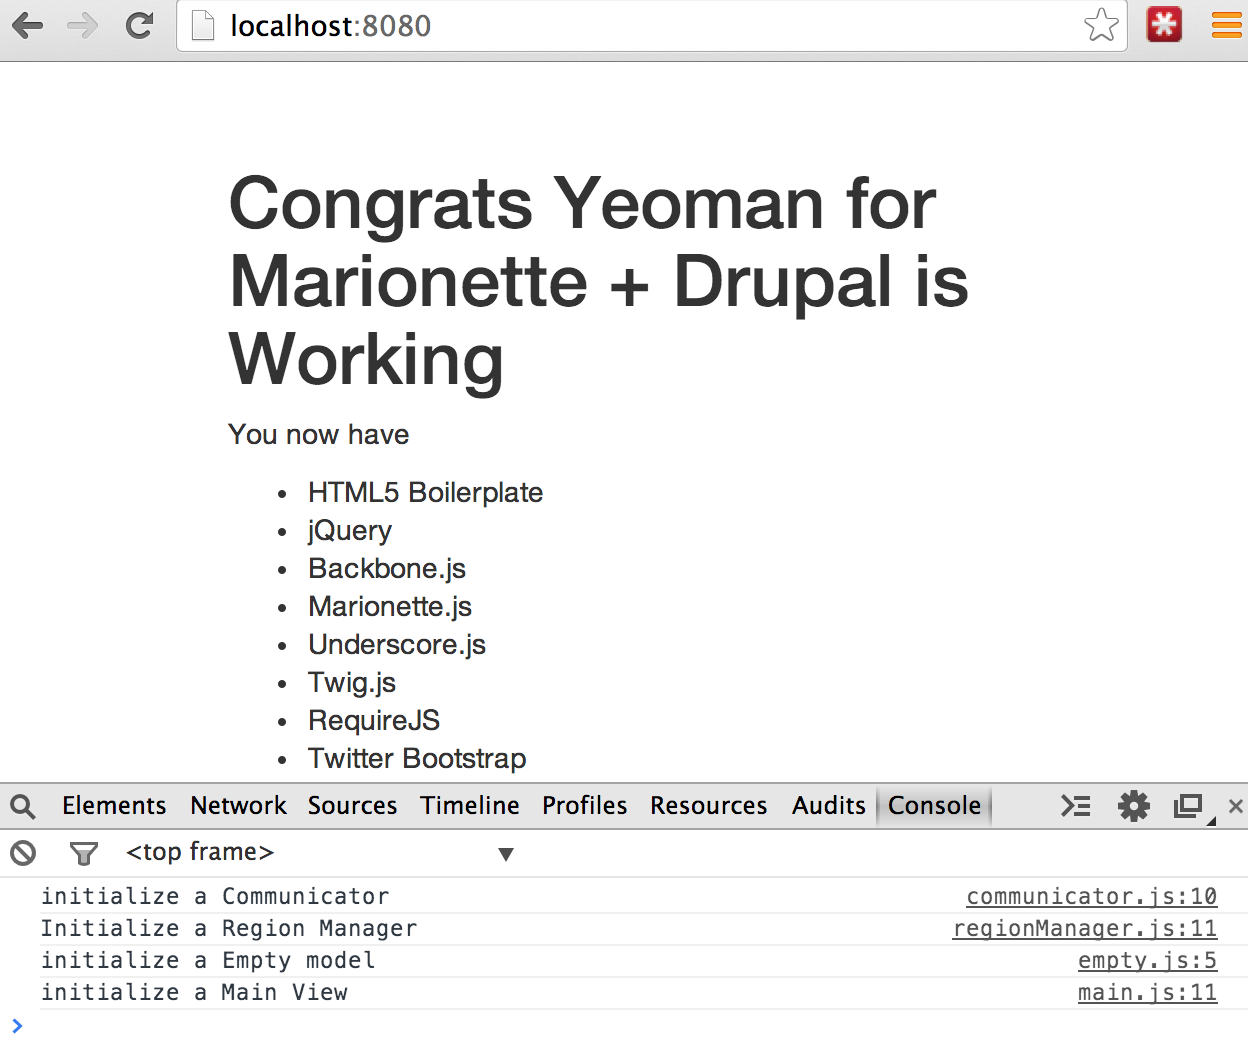
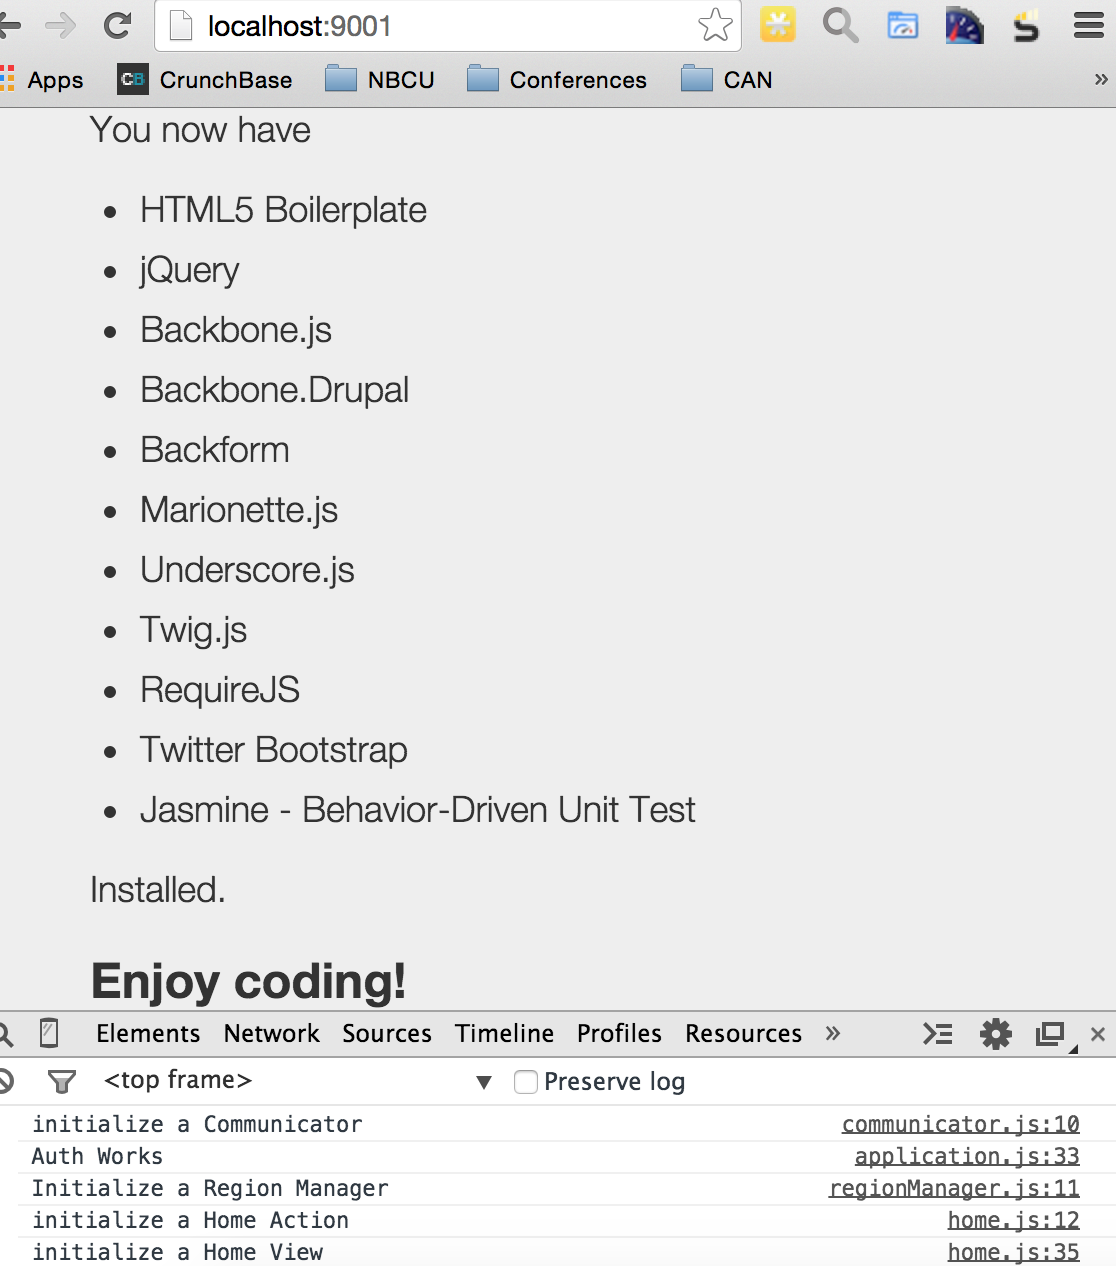
Update image sample, Fix backform dependencies order, Sample app now has support to backform by default, Fix form generator overwritting model, Update app layout regions, Add support to new form field types

Changed region(s): [[0.0, 0.1557, 1.0, 1.0], [0.0, 0.0, 1.0, 0.1245], [0.0609, 0.6849, 0.2133, 0.716]]

diff --git a/form/index.js b/form/index.js
@@ -158,20 +158,23 @@ ActionGenerator.prototype.askFor = function () {
           var inputTypes = {
             string_textfield: 'input',
             taxonomy_autocomplete: 'input',
+            email_default: 'input',
+            number: 'input',
+            text_textfield: 'textarea',
+            text_textarea: 'textarea',
             text_textarea_with_summary: 'textarea',
             boolean_checkbox: 'boolean',
             datetime_timestamp: 'datepicker',
             datetime_default: 'datepicker',
             image_image: 'button',
-            email_default: 'input',
-            number: 'input',
             options_select: 'select'
-            //'select', 'radio', 'spacer', 'button'
+            //'radio', 'spacer', 'button'
           };
 
           res = JSON.parse(res.body.toString());
           for (var field in res.content ) {
             if (ignoreFields.indexOf(field) < 0) {
+              console.log(res.content[field].type);
               if(typeof(inputTypes[res.content[field].type]) != 'undefined') {
                 fields.push({id: field, label: _s.humanize(_s.strRight(field, 'field_')), type: inputTypes[res.content[field].type], options: JSON.stringify({}), settings: res.content[field]});
               }

diff --git a/app/templates/web/index.html b/app/templates/web/index.html
@@ -19,10 +19,14 @@
 
     <body>
 
-        <div id="main-menu-region"></div>
-        <div id="messages"></div>
-        <div id="content-region"></div>
-        <div id="footer-region"></div>
+        <div class="row-fluid show-grid">
+          <div class="span12 text-center" id="main-menu-region">Menu Region</div>
+          <div class="span12 text-center" id="messages">Messages Region</div>
+          <div class="span2 text-center" id="left-sidebar-region">Left Sidebar Region</div>
+          <div class="span7 hero-unit" id="content-region">Content Region</div>
+          <div class="span2 text-center" id="right-sidebar-region">Right Sidebar Region</div>
+          <div class="span12 text-center" id="footer-region">Footer Region</div>
+        </div>
 
         <script data-main="scripts/init" src="vendor/requirejs/require.js"></script>
 

diff --git a/template/templates/template.js b/template/templates/template.js
@@ -10,7 +10,7 @@
 Model debug <br/>
 {% for property in <%= drupalType %>|keys %}
   {% set current_property = <%= drupalType %>[property][0] %}
-  <i>Model Property {{ property }}</i>: {{ current_property.value}}<br/>
+  <i>Property {{ property }}</i>: {{ current_property.value}}<br/>
 {% endfor %}
 <% } else { %>
   Each model property create a variable in template <br/>
@@ -24,7 +24,7 @@ Model debug <br/>
   Model debug <br/>
   {% for key in model|keys %}
     {% set current_property = model[key] %} <br/>
-    Model Property: {{ key }}<br/>
+    Property: {{ key }}<br/>
     {% if current_property is not empty %}
       {% for property_key in current_property|keys %}
         {{property_key}} : {{ current_property[property_key]}} <br/>

diff --git a/action/index.js b/action/index.js
@@ -104,13 +104,10 @@ ActionGenerator.prototype.askFor = function () {
       }
       else {
         this.actionForm = actionViewForm[1];
-        console.log(this.MVC);
-        console.log({ type:'form', view: this.actionForm});
         this.selectedMVC = _.findWhere(this.MVC, { type:'form', form: this.actionForm});
         this.Action = {'Route': props.actionRoute, 'Action': props.actionName, 'Region': props.actionRegion, 'Form': this.actionForm};
       }
 
-      console.log(this.selectedMVC);
       this.Action.Model = this.selectedMVC.model;
       this.Action.Collection = this.selectedMVC.collection;
 

diff --git a/app/templates/web/init.js b/app/templates/web/init.js
@@ -21,8 +21,14 @@ require.config({
         'backbone.drupal.services': {
           deps: ['backbone.drupal']
         },
+        'bootstrap2.3': {
+            deps: ['backbone']
+        },
+        'bootstrap-datepicker': {
+            deps: ['bootstrap2.3']
+        },
         backform: {
-          deps: ['backbone', 'bootstrap2.3', 'bootstrap-datepicker']
+          deps: [ 'bootstrap-datepicker']
         },
         main: {
           deps: ['backbone.drupal.services', 'productionjs', 'backform']

diff --git a/model/templates/model.js b/model/templates/model.js
@@ -5,8 +5,9 @@ define(["backbone"<% if (!_.isEmpty(backbone_model)) { %>, 'backbone.drupal'<% }
     <% } else { %>
       var <%= _.classify(Model) %> = Backbone.Model.extend({
     <% } %>
-      initialize: function() {
+      initialize: function(options) {
         console.log("initialize a <%= _.classify(Model) %> model");
+        this.backform = options.backform;
         <% if (!_.isEmpty(modelEndPoint)) { %>
         this.url = "<%= modelEndPoint %>";
         <% } %>

diff --git a/form/templates/form.js b/form/templates/form.js
@@ -28,7 +28,6 @@ function (<%= _.classify('marionette') %>){
   var <%= _.classify(name) %>Form = Backform.Form.extend({
     initialize: function() {
       console.log("initialize a <%= _.classify(name) %> Form");
-      this.model = new Backbone.Drupal.Models.<%= _.classify(model) %>();
       Backform.Form.prototype.initialize.apply(this, arguments);
     },
     fields: [<% _.each(fields, function (field) { %>

diff --git a/action/templates/action.js b/action/templates/action.js
@@ -40,7 +40,7 @@ define(
       });*/
 
       //Edit / Fetch model to render in a specific region. You must change the ID
-      var viewModel = new <%= _.classify(Action.Model) %>Model({nid:1});
+      var viewModel = new <%= _.classify(Action.Model) %>Model({nid:1<% if (!_.isEmpty(Action.Form)) { %>, backform: true<% } %>});
 
       viewModel.fetch({
         success: function (Model) {
